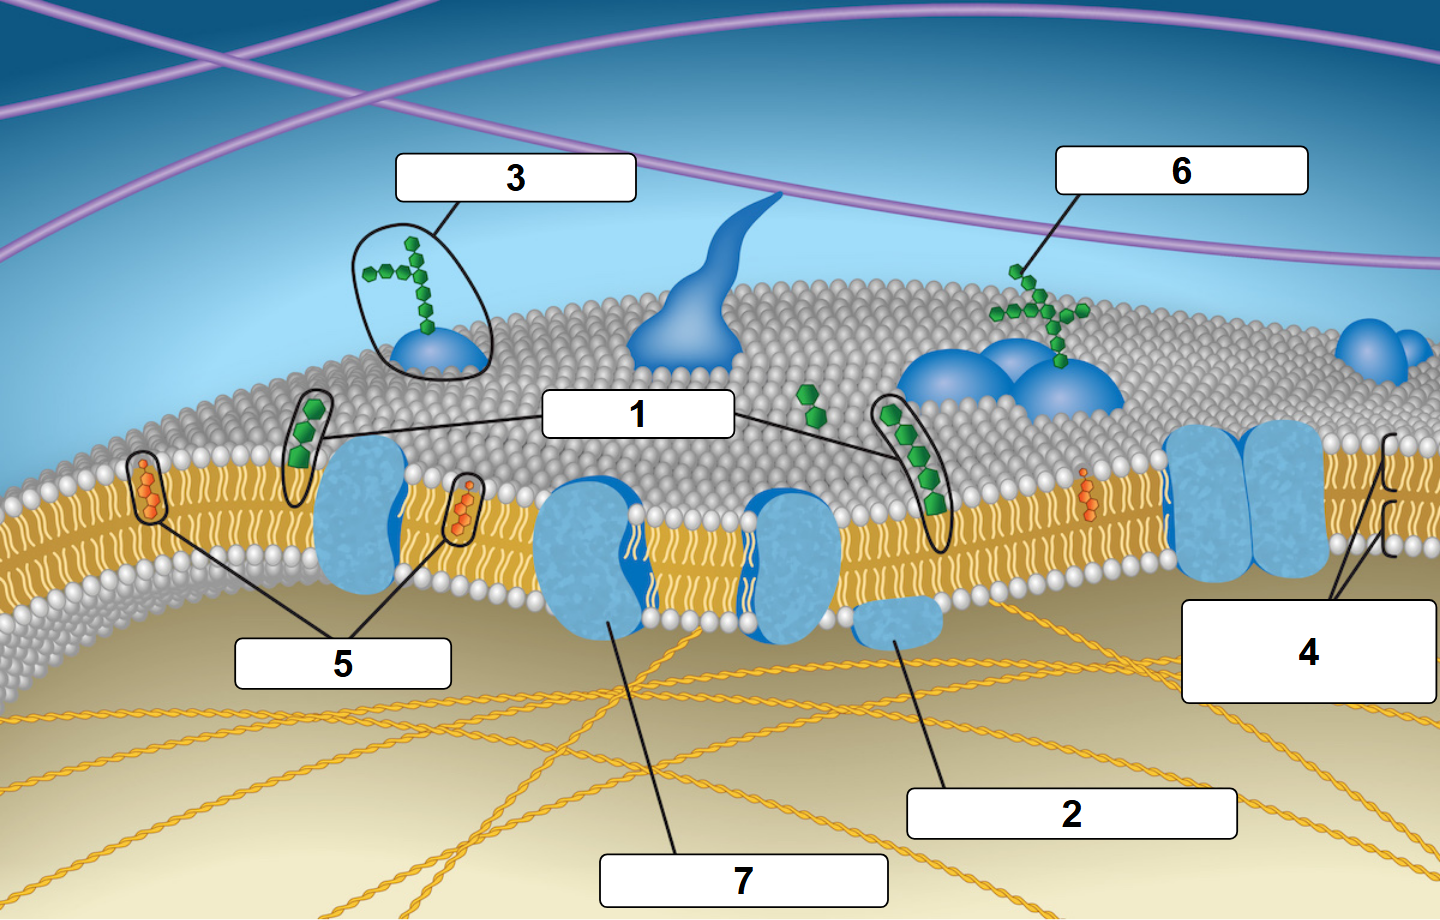
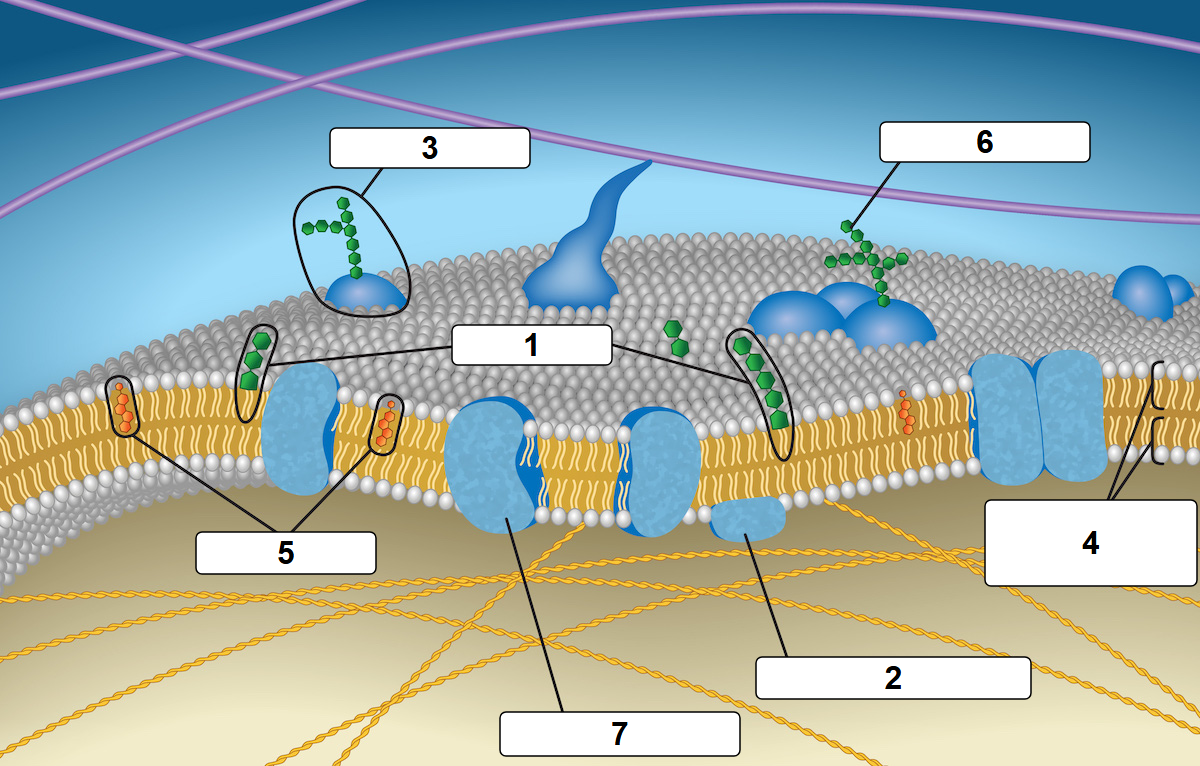
fix(imat): refuse a twin figure over the 1 MiB image bucket limit
The 2022 Q31 membrane figure (1.1 MB) failed mid-load, after six other
figures had been attached. check.ts now measures each figure against the
bucket's file_size_limit, so the load refuses up front. Q31 is redrawn at
the OpenStax source's own resolution (872 KB).

diff --git a/scripts/imat/practice/lib.ts b/scripts/imat/practice/lib.ts
@@ -104,6 +104,8 @@ export function twinScope(q: ImatQuestion): TwinScope {
 
 const ZONE = /\\\(([\s\S]*?)\\\)|\\\[([\s\S]*?)\\\]/g;
 const DASH = /—|–| -- /;
+/** The question-images bucket's file_size_limit (storage.buckets). */
+export const FIGURE_MAX_BYTES = 1_048_576;
 
 function mathProblems(s: string): string[] {
   const out: string[] = [];
@@ -127,7 +129,7 @@ function mathProblems(s: string): string[] {
 export function checkTwins(
   twins: readonly ImatTwin[],
   sources: ReadonlyMap<string, ImatQuestion>,
-  opts: { figureExists?: (file: string) => boolean } = {}
+  opts: { figureExists?: (file: string) => boolean; figureBytes?: (file: string) => number } = {}
 ): string[] {
   const problems: string[] = [];
   const seen = new Set<string>();
@@ -154,6 +156,8 @@ export function checkTwins(
     if (!t.solution.trim()) problems.push(`${at}: no solution`);
     if (t.figure) {
       if (opts.figureExists && !opts.figureExists(t.figure.file)) problems.push(`${at}: figure file missing (${t.figure.file})`);
+      else if (opts.figureBytes && opts.figureBytes(t.figure.file) > FIGURE_MAX_BYTES)
+        problems.push(`${at}: figure over the image bucket's 1 MiB limit (${t.figure.file}); draw it smaller`);
       if (t.figure.origin === "openstax" && !t.figure.credit?.trim()) problems.push(`${at}: an OpenStax figure needs its CC BY credit`);
     }
     for (const [field, s] of [["context", t.context ?? ""], ["text", t.text], ["solution", t.solution], ...t.options.map((o, i) => [`option ${i + 1}`, o])]) {

diff --git a/scripts/imat/practice/check.ts b/scripts/imat/practice/check.ts
@@ -10,7 +10,7 @@
  * per year: in scope, twinned, held for figures, out of the syllabus.
  * Exits 1 on any problem or unreviewed originality finding. Read-only.
  */
-import { existsSync, readFileSync } from "node:fs";
+import { existsSync, readFileSync, statSync } from "node:fs";
 import { join } from "node:path";
 import type { ImatQuestion } from "../lib";
 import { buildOriginalityIndex, checkOriginality, unreviewed, wordingKey } from "../../../src/lib/sites/imat/originality";
@@ -41,7 +41,10 @@ export function checkAllTwins() {
     for (const q of qs) sources.set(`${year} Q${q.n}`, q);
   }
   const twins = CAMBRIDGE_YEARS.flatMap(loadTwinFile);
-  const problems = checkTwins(twins, sources, { figureExists: (f) => existsSync(join(FIGURES, f)) });
+  const problems = checkTwins(twins, sources, {
+    figureExists: (f) => existsSync(join(FIGURES, f)),
+    figureBytes: (f) => statSync(join(FIGURES, f)).size,
+  });
   const idx = buildOriginalityIndex(loadPastQuestions());
   const findings = twins.flatMap((t) => checkOriginality(idx, t));
   const open = unreviewed(findings, twins, loadReviews());

diff --git a/tests/imat-twins.test.ts b/tests/imat-twins.test.ts
@@ -193,6 +193,13 @@ describe("twin figures", () => {
     expect(checkTwins([t], sources, { figureExists: exists([]) }).join()).toMatch(/figure file missing/);
   });
 
+  it("refuses a figure over the image bucket's 1 MiB limit, before the load fails halfway", () => {
+    const t = { ...base, figure: { file: "twin-2022-Q7.png", origin: "drawn" as const } };
+    const opts = (bytes: number) => ({ figureExists: exists(["twin-2022-Q7.png"]), figureBytes: () => bytes });
+    expect(checkTwins([t], sources, opts(1_100_000)).join()).toMatch(/1 MiB/);
+    expect(checkTwins([t], sources, opts(1_048_576))).toEqual([]);
+  });
+
   it("refuses an OpenStax figure without the credit its licence requires", () => {
     const t = { ...base, figure: { file: "twin-2022-Q7.png", origin: "openstax" as const } };
     expect(checkTwins([t], sources, { figureExists: exists(["twin-2022-Q7.png"]) }).join()).toMatch(/credit/);
